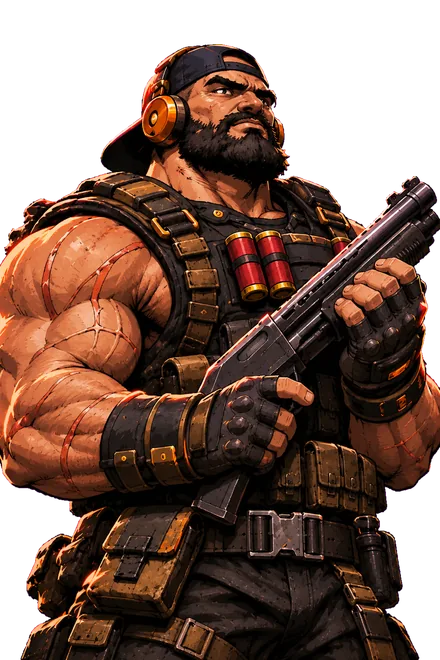
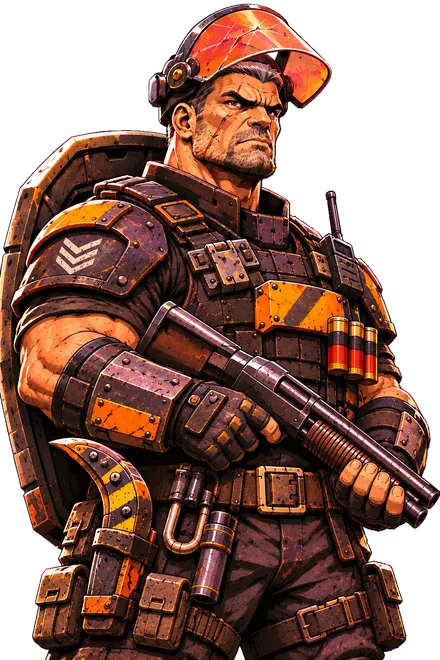
New Briggs: the remake art (riot helmet, black-and-orange armour, riot shield)
Cache 20261114r.

Claude-Session: https://claude.ai/code/session_01DZ7TQ884r4s3ytnVNv4XVF

diff --git a/client/index.html b/client/index.html
@@ -736,5 +736,5 @@ body.in-match #ls{display:none}
 <div id="spectate" class="spectate hidden" aria-live="polite"><b id="specTitle"></b><span><span id="specWho"></span><small id="specHint"> · Space / ← → / click to switch</small></span></div>
  <div id="overlay" class="overlay hidden"><div class="modal"><div style="font-size:42px">☣</div><h2 id="overlayTitle"></h2><p class="muted" id="overlayText"></p><div id="shop" class="shop hidden" aria-label="Shop"></div><div id="breakBtns" class="break-btns hidden"><button class="button primary" id="breakReady">READY</button><button class="button" id="breakMin">▾ MINIMIZE · BUILD FIRST</button><button class="button hidden" id="nextStage">START NOW</button></div><button class="button primary hidden" id="restartGame">PLAY AGAIN</button></div></div>
 </section>
-<script type="module" src="./client.js?v=20261114q"></script>
+<script type="module" src="./client.js?v=20261114r"></script>
 </body></html>

diff --git a/tools/prep-briggs-remake.py b/tools/prep-briggs-remake.py
@@ -1,0 +1,90 @@
+# Briggs REMAKE (Nov 16): the user's new Briggs (riot visor, black armour with orange panels, riot shield on his back) -> ready-to-cut art.
+#   python3 tools/prep-briggs-remake.py   (first step of tools/cut-briggs.sh)
+# Sources: tools/art/briggs/remake/ (design.png = the look the user picked; the rest made from it with tools/art/briggs/REMAKE-PROMPTS.md):
+#   D-shotgun E-knife F-bat J-gauntlets: 5 rows x 6 cols; I-throw K-power: 5 x 4; X-slam-sequence: ONE direction, 4 x 8 frames (asked for
+#   5 x 4, got a sequence: the Q cast uses 4 of its frames for every direction); B-hero (lobby), C-face; L/M/N/O cards (E / Q / R / passive).
+#   5 rows = DOWN, DOWN-RIGHT, RIGHT, UP-RIGHT, UP: extract-directions.py mirrors them for the left side.
+# Fixes (user: "chatgpt changed his design bit by bit"):
+#  1. PINK VISOR: his visor's shine is pink / magenta, which the magenta keying would punch holes in. Pink pixels inside the art -> orange
+#     (same lightness); magenta pockets that are pure background colour (gaps between legs / arms) -> exact #FF00FF so they're cut out.
+#  2. COLOUR CREEP: each sheet came back a bit warmer / browner than the shotgun sheet (the darkest, closest to the design). Every other
+#     sheet is matched to D in Lab: skin (mean / spread), clothes / gear (each channel's distribution); bright accents (visor, hazard
+#     stripes, glowing knuckles, flashes) and the dark outline are left alone. (Same method as the Nov 16 top-right fix.)
+# Writes tools/art/briggs/remake/prep/*.png, tools/art/hero/juggernaut.png, tools/art/faces/juggernaut.png, client/assets/icons/card-*.png.
+import os
+import numpy as np
+from PIL import Image, ImageFilter
+from scipy import ndimage
+here = os.path.dirname(os.path.abspath(__file__)); R = os.path.join(here, 'art', 'briggs', 'remake'); P = os.path.join(R, 'prep'); os.makedirs(P, exist_ok=True)
+ICON = os.path.join(here, '..', 'client', 'assets', 'icons')
+load = lambda n: np.array(Image.open(os.path.join(R, n)).convert('RGB')).astype(int)
+
+def background(a):   # magenta-ish connected to the image's edge (the gaps between frames are too)
+    r, g, b = a[..., 0], a[..., 1], a[..., 2]
+    m = ((r > 200) & (b > 200) & (g < 90)) | ((r > 140) & (b > 140) & (g < 130) & (np.abs(r - b) < 110))
+    lab, _ = ndimage.label(m); edge = set(np.unique(np.concatenate([lab[0], lab[-1], lab[:, 0], lab[:, -1]]))) - {0}
+    return np.isin(lab, list(edge)), m
+
+def depink(a):
+    a = a.copy(); r, g, b = a[..., 0], a[..., 1], a[..., 2]; bg, m = background(a)
+    inner = m & ~bg; lab, n = ndimage.label(inner); gaps = np.zeros_like(inner); fixed = 0
+    for i, sl in enumerate(ndimage.find_objects(lab)):
+        reg = lab[sl] == i + 1; px = a[sl][reg]; mr, mg, mb = px.mean(0)
+        if abs(mr - mb) < 22 and mg < 28: gaps[sl] |= reg   # pure background colour: a real gap
+    a[gaps] = (255, 0, 255)
+    near = ndimage.binary_dilation(bg | gaps, iterations=2)
+    pink = ~bg & ~gaps & ~near & (r - g > 60) & (b - g > 25) & (b > 80)   # the visor's pink / magenta shine (and any pink fringe inside the art)
+    rr = r[pink]; a[pink] = np.stack([rr, np.maximum(g[pink], (rr * .48).astype(int)), np.minimum(b[pink], (rr * .28).astype(int))], -1)
+    return a, int(pink.sum()), int(gaps.sum())
+
+# Lab colour matching (as in fix-briggs-upright.py, Nov 16)
+def srgb2lab(rgb):
+    c = rgb / 255.0; c = np.where(c > .04045, ((c + .055) / 1.055) ** 2.4, c / 12.92)
+    M = np.array([[.4124, .3576, .1805], [.2126, .7152, .0722], [.0193, .1192, .9505]]); xyz = c @ M.T / np.array([.95047, 1., 1.08883])
+    f = np.where(xyz > .008856, np.cbrt(xyz), 7.787 * xyz + 16 / 116)
+    return np.stack([116 * f[..., 1] - 16, 500 * (f[..., 0] - f[..., 1]), 200 * (f[..., 1] - f[..., 2])], -1)
+def lab2srgb(lab):
+    fy = (lab[..., 0] + 16) / 116; fx = fy + lab[..., 1] / 500; fz = fy - lab[..., 2] / 200; f = np.stack([fx, fy, fz], -1)
+    xyz = np.where(f > .2069, f ** 3, (f - 16 / 116) / 7.787) * np.array([.95047, 1., 1.08883])
+    M = np.array([[3.2406, -1.5372, -.4986], [-.9689, 1.8758, .0415], [.0557, -.2040, 1.0570]]); c = xyz @ M.T
+    c = np.where(c > .0031308, 1.055 * np.clip(c, 0, None) ** (1 / 2.4) - .055, 12.92 * c); return np.clip(c * 255, 0, 255)
+ACC = 62; Q = np.linspace(0, 100, 101)
+def groups(lab):   # 0 outline, 1 skin, 2 clothes / gear, 3 bright accent
+    L, A, B = lab[..., 0], lab[..., 1], lab[..., 2]; ch = np.hypot(A, B); hue = np.degrees(np.arctan2(B, A)); g = np.full(L.shape, 2)
+    g[(L > 45) & (ch > 24) & (ch <= ACC) & (hue > 25) & (hue < 70)] = 1; g[ch > ACC] = 3; g[L < 12] = 0; return g
+def stats(a, fg):
+    lab = srgb2lab(a[fg].astype(float)); g = groups(lab)
+    return {k: (lab[g == k].mean(0), lab[g == k].std(0) + 1e-3, np.percentile(lab[g == k], Q, axis=0)) for k in (1, 2)}
+def match(a, fg, ref):
+    st = stats(a, fg); lab = srgb2lab(a[fg].astype(float)); g = groups(lab); out = lab.copy()
+    mn, sn, _ = st[1]; mo, so, _ = ref[1]; m = g == 1; out[m] = (lab[m] - mn) * np.clip(so / sn, .6, 1.25) + mo
+    m = g == 2
+    for c in range(3): out[m, c] = np.interp(lab[m, c], st[2][2][:, c], ref[2][2][:, c])
+    a = a.copy(); a[fg] = lab2srgb(out).astype(int); return a, st
+
+def figure(a): bg, _ = background(a); r, g, b = a[..., 0], a[..., 1], a[..., 2]; return ~bg & ~((r == 255) & (g == 0) & (b == 255))
+save = lambda a, path: Image.fromarray(np.clip(a, 0, 255).astype(np.uint8)).save(path)
+
+D, n1, n2 = depink(load('D-shotgun.png')); ref = stats(D, figure(D)); save(D, os.path.join(P, 'D-shotgun.png'))
+print(f'D-shotgun: {n1} pink px -> orange, {n2} gap px -> background (the colour reference)')
+for name in ('E-knife', 'F-bat', 'I-throw', 'J-gauntlets', 'K-power'):
+    a, n1, n2 = depink(load(name + '.png')); a, st = match(a, figure(a), ref); save(a, os.path.join(P, name + '.png'))
+    print(f'{name}: {n1} pink px -> orange, {n2} gap px; clothes Lab {st[2][0].round(1)} -> {ref[2][0].round(1)}')
+
+# the Q cast (slam block): 4 frames of the one-direction sequence (4 rows x 8 of 192 x 256), the same 4 in all 5 rows
+# 0 fists raised high, 1 SLAM into the ground (cracks + sparks), 2 ROAR, 3 braced stance
+seq, n1, n2 = depink(load('X-slam-sequence.png')); seq, _ = match(seq, figure(seq), ref)
+pick = [(0, 7), (2, 3), (1, 1), (3, 6)]; cw, ch = 192, 256
+sheet = np.zeros((5 * ch, 4 * cw, 3), int); sheet[...] = (255, 0, 255)
+for row in range(5):
+    for c, (sr, sc) in enumerate(pick): sheet[row * ch:(row + 1) * ch, c * cw:(c + 1) * cw] = seq[sr * ch:(sr + 1) * ch, sc * cw:(sc + 1) * cw]
+save(sheet, os.path.join(P, 'H-slam.png')); print(f'H-slam: built from the sequence (frames {pick}), {n1} pink px -> orange')
+
+# lobby art + face: the pink visor -> orange, then tools/extract-heroes.py / extract-faces.py key them as usual
+for src, dst in (('B-hero.png', os.path.join('hero', 'juggernaut.png')), ('C-face.png', os.path.join('faces', 'juggernaut.png'))):
+    a, n1, n2 = depink(load(src)); save(a, os.path.join(here, 'art', dst)); print(f'{src}: {n1} pink px -> orange, {n2} gap px -> tools/art/{dst}')
+
+# skill cards (152 x 152, like every card)
+for src, dst in (('L-card-boomerang.png', 'card-steelBoomerang'), ('M-card-unbreakable.png', 'card-unbreakable'), ('N-card-bareknuckle.png', 'card-bareKnuckle'), ('O-card-passive.png', 'card-forcefulBlast')):
+    Image.open(os.path.join(R, src)).convert('RGB').resize((152, 152), Image.LANCZOS).filter(ImageFilter.UnsharpMask(radius=1.0, percent=70, threshold=2)).save(os.path.join(ICON, dst + '.png'))
+print('cards: card-steelBoomerang, card-unbreakable, card-bareKnuckle, card-forcefulBlast')

diff --git a/tools/extract-boomerang.py b/tools/extract-boomerang.py
@@ -1,9 +1,9 @@
 # Briggs's E "STEEL BOOMERANG" (Nov 15; it replaced the Manhole Frisbee): the user's boomerang (seen from straight above) + the skill card.
 #   python3 tools/extract-boomerang.py
-# Sources (tools/art/briggs): boomerang-art.png (1254 x 1254, magenta), boomerang-card.png. (The throw pose: tools/clean-briggs-throw.py + cut-briggs.sh.)
+# Sources (tools/art/briggs): boomerang-art.png (1254 x 1254, magenta), boomerang-card.png. (The throw pose: tools/cut-briggs.sh.)
 # Writes client/assets/sprites/fx/boomerang.webp: ONE square cell (CELL px) with the boomerang's CENTRE OF MASS in the middle (a boomerang spins
 # round its centre of mass, which sits inside the V, not at its bounding box's centre), drawn at 2x the size the game shows it (it's rotated
-# every frame: the extra pixels keep it crisp), and client/assets/icons/card-steelBoomerang.png (152 x 152).
+# every frame: the extra pixels keep it crisp), and client/assets/(its card: tools/prep-briggs-remake.py).
 import os
 import numpy as np
 from PIL import Image, ImageFilter
@@ -26,5 +26,4 @@ img = Image.fromarray(np.clip(rgb, 0, 255).astype(np.uint8)).filter(ImageFilter.
 out = Image.fromarray(np.dstack([np.array(img), (np.clip((al[..., 0] - .12) / .76, 0, 1) * 255).astype(np.uint8)]), 'RGBA')
 out.save(os.path.join(A, 'sprites', 'fx', 'boomerang.webp'), quality=94, alpha_quality=100, method=6)
 w = (xs.max() - xs.min()) / side * CELL; print('boomerang cell', CELL, 'from', side, 'px; its width in the cell %.1f px (%.2f of the cell)' % (w, w / CELL))
-card = Image.open(os.path.join(ART, 'boomerang-card.png')).convert('RGB').resize((152, 152), Image.LANCZOS).filter(ImageFilter.UnsharpMask(radius=1.0, percent=60, threshold=2))
-card.save(os.path.join(A, 'icons', 'card-steelBoomerang.png')); print('card 152x152')
+# (Nov 16) the card is made by tools/prep-briggs-remake.py now (the remake's card).

diff --git a/tools/extract-briggs-wall.py b/tools/extract-briggs-wall.py
@@ -122,9 +122,4 @@ slabs.save(os.path.join(A, 'sprites', 'fx', 'briggs-slab.webp'), quality=92, alp
 print('wall atlas', atlas.size, 'cell', cw, ch, 'anchor', round(AX * SC, 1), round(AY * SC, 1))
 print('slab tex', tw, th, '(TEX %.2f) ground at y %.1f; ring rx %.1f ry %.1f h %.1f (game px)' % (TEX, (489 - REF['top']) * TEX, REF['rx'] * SC, REF['ry'] * SC, REF['h'] * SC))
 
-# the Q card
-c = np.array(Image.open(os.path.join(ART, 'unbreakable-card-a.png')).convert('RGB')).astype(int)
-fg = ~((c[..., 0] > 200) & (c[..., 2] > 200) & (c[..., 1] < 90)); ys, xs = np.where(ndimage.binary_opening(fg, iterations=3))
-card = np.dstack([c, fg * 255]).astype(np.uint8)[ys.min():ys.max() + 1, xs.min():xs.max() + 1]
-im = resize_sharp(card, 152 / max(card.shape[:2]), 55); out = Image.new('RGBA', (152, 152)); out.alpha_composite(im, ((152 - im.width) // 2, (152 - im.height) // 2))
-out.save(os.path.join(A, 'icons', 'card-unbreakable.png')); print('card', im.size)
+# (Nov 16) the Q card is made by tools/prep-briggs-remake.py now (the remake's card).

diff --git a/tools/finish-briggs.py b/tools/finish-briggs.py
@@ -1,0 +1,9 @@
+# Briggs's atlas, last step (Nov 16 remake): extract-directions.py writes juggernaut.png -> full-colour lossless WebP (the client loads the .webp).
+#   python3 tools/finish-briggs.py   (run by tools/cut-briggs.sh)
+# (Replaces fix-briggs-slam.py / fix-briggs-upright.py / clean-briggs-throw.py: their row mirrors, pink fixes and top-right fixes were for
+# the OLD Briggs art. The remake's sheets have 5 directions, extract-directions mirrors the left side itself, and prep-briggs-remake.py
+# does the pink / colour fixes before cutting. They're in git history.)
+import os
+from PIL import Image
+here = os.path.dirname(os.path.abspath(__file__)); path = os.path.join(here, '..', 'client', 'assets', 'sprites', 'dir8', 'juggernaut.png')
+Image.open(path).convert('RGBA').save(path.replace('.png', '.webp'), lossless=True, quality=100, method=6); os.remove(path); print('juggernaut.webp (lossless)')

diff --git a/HANDOFF.md b/HANDOFF.md
@@ -895,3 +895,13 @@ Jump to wave, spawn 5 of each zombie, spawn Hivemind, boss intro now, boss to 25
 - Default new look (user can swap): demolition foreman, shaved head, handlebar moustache, welding visor up, orange hi-vis vest over gunmetal plates + hazard band, tool belt, steel knee pads, pump shotgun.
 - Order: A design sheet -> D shotgun (locks the sprite look) -> E knife, F bat, G axe, H Q slam cast, I E boomerang throw, J R gauntlets, K R power-up (each attaches A + D) -> B lobby art, C face -> L-O cards (redraw the existing cards with the new man).
 - Sprite sheets are 5 rows (DOWN, DR, R, UR, UP): extract-directions mirrors the left side. When the art lands: drop the old left-row / UP-RIGHT fixes (fix-briggs-slam.py mirror steps, fix-briggs-upright.py), cut throw as [pull, wind-up, wind-up, fling].
+
+## Nov 16 — NEW BRIGGS in the game (remake art) (cache 20261114r)
+- User picked a design (tools/art/briggs/remake/design.png: riot visor helmet, black armour + orange panels, chevrons, shells, radio, riot shield on his back) and sent the sheets; "we skip this for now [the redo list], go ahead and create the character".
+- New pipeline (tools/cut-briggs.sh): prep-briggs-remake.py -> extract-directions.py (5-row sheets, left side mirrored) -> finish-briggs.py (lossless webp) -> extract-briggs-wall.py. Then extract-heroes.py + extract-faces.py tools/art/faces for the lobby / face.
+  prep-briggs-remake.py: (1) depink: the visor's pink shine -> orange (same lightness), pure-magenta pockets -> #FF00FF so they key out; (2) colour creep: E/F/I/J/K + slam matched to D (shotgun) in Lab (skin mean/spread, clothes quantiles, accents/outline untouched); (3) builds H-slam.png (5 x 4) from the one-direction slam sequence (frames r0c7 fists up, r2c3 slam + cracks, r1c1 roar, r3c6 braced) for all 5 rows; (4) lobby / face sources (depinked) to tools/art/hero|faces/juggernaut.png; (5) the 4 cards -> icons (steelBoomerang, unbreakable, bareKnuckle, forcefulBlast).
+- Retired (git history): fix-briggs-slam.py, fix-briggs-upright.py, clean-briggs-throw.py, extract-briggs-fists.py; the Q / E cards are no longer made by extract-briggs-wall.py / extract-boomerang.py.
+- Stand-ins until redone (user skipped for now): AXE block = the bat sheet; Q cast = the sequence frames (same pose for every direction); cards keep ChatGPT's new top-title frame; Unbreakable card shows gauntlets. Helmet in sprites = solid helmet (design: flipped-up clear visor).
+- Throw block = the sheet as drawn: 0 pull from behind the shield, 1 wind-up, 2 fling (boomerang in hand), 3 follow-through (client plays 0-1-2 over the cast, 3 after).
+- Checked in the preview: lobby art + face + cards, shooting, Q (slam -> shields), E, R (power-up, jab/haymaker), no errors.
+- Cache `20261114r`; next `20261114s`.
